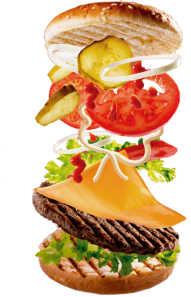
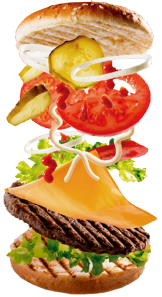
grinding

diff --git a/app/(tabs)/addItem.tsx b/app/(tabs)/addItem.tsx
@@ -1,4 +1,13 @@
-import { View, Text, StyleSheet, ScrollView, Image } from "react-native";
+import {
+  View,
+  Text,
+  StyleSheet,
+  ScrollView,
+  Image,
+  TouchableOpacity,
+  Dimensions,
+  PixelRatio,
+} from "react-native";
 import React, { useState } from "react";
 import { SafeAreaView } from "react-native-safe-area-context";
 import { StatusBar } from "expo-status-bar";
@@ -6,6 +15,7 @@ import { router } from "expo-router";
 import Icon from "react-native-vector-icons/Feather";
 import Slider from "@react-native-community/slider";
 
+const { width, height } = Dimensions.get("window");
 const AddItem = () => {
   const [quantity, setQuantity] = useState<number>(1);
   const [spicyLevel, setSpicyLevel] = useState(0);
@@ -21,19 +31,13 @@ const AddItem = () => {
               color={"#3C2F2F"}
               onPress={() => router.back()}
             />
-            <Icon
-              name="search"
-              size={24}
-              color={"#3C2F2F"}
-              onPress={() => router.back()}
-            />
           </View>
           <View style={styles.mainContainer}>
             <View style={styles.mainContent}>
               <View style={styles.imageContainer}>
                 <Image
                   source={{
-                    uri: "https://res.cloudinary.com/dlnvweuhv/image/upload/v1732382937/addItem-image_yavv1u.png",
+                    uri: "https://res.cloudinary.com/dlnvweuhv/image/upload/v1732389322/addItem-image_lca3zj.png",
                   }}
                   alt="hamburger_image"
                   style={styles.image}
@@ -62,6 +66,38 @@ const AddItem = () => {
                     <Text style={styles.hotLabel}>Hot</Text>
                   </View>
                 </View>
+                <View style={styles.quantityControlContainer}>
+                  <Text style={styles.specificationText}>Portion</Text>
+                  <View style={styles.quantityControlContent}>
+                    <TouchableOpacity
+                      style={styles.quantityControlButtons}
+                      onPress={() =>
+                        setQuantity((prevQuantity) =>
+                          Math.max(1, prevQuantity - 1)
+                        )
+                      }
+                    >
+                      <Text style={styles.quantityControlButtonsText}>-</Text>
+                    </TouchableOpacity>
+                    <Text style={styles.quantity}>{quantity}</Text>
+                    <TouchableOpacity
+                      style={styles.quantityControlButtons}
+                      onPress={() =>
+                        setQuantity((prevQuantity) => prevQuantity + 1)
+                      }
+                    >
+                      <Text style={styles.quantityControlButtonsText}>+</Text>
+                    </TouchableOpacity>
+                  </View>
+                </View>
+              </View>
+            </View>
+            <View style={styles.flatListContainer}>
+              <View style={styles.FlatList1content}>
+                <Text style={styles.flatListHeading}>Toppings</Text>
+              </View>
+              <View style={styles.FlatList2content}>
+                <Text style={styles.flatListHeading}>Side options</Text>
               </View>
             </View>
           </View>
@@ -85,33 +121,39 @@ const styles = StyleSheet.create({
   },
   headerContainer: {
     flexDirection: "row",
-    justifyContent: "space-between",
     alignItems: "center",
   },
   mainContainer: {
     flexDirection: "column",
     gap: 6,
+    paddingTop: "8%",
   },
   mainContent: {
+    // flexDirection: width < 600 ? "column" : "row",
+    // gap: width < 600 ? 10 : 16,
     flexDirection: "row",
-    gap: 8,
+    gap: 10,
+    justifyContent: "space-between",
+    alignItems: "center",
   },
   imageContainer: {
-    width: "50%",
-    aspectRatio: 1.8,
+    // width: "50%",
+    // aspectRatio: 1,
+    flex: 1, // Take up equal space as descriptionContainer
   },
   image: {
     width: "100%",
     height: "100%",
   },
   descriptionContainer: {
-    width: "50%",
+    flex: 1, // Take up equal space as imageContainer
+    // width: "50%",
     flexDirection: "column",
-    gap: 8,
+    gap: "4%",
   },
   description: {
     fontFamily: "roboto",
-    fontSize: 14,
+    fontSize: PixelRatio.getFontScale() * 16,
     color: "#3C2F2F",
   },
   customizeText: {
@@ -123,20 +165,20 @@ const styles = StyleSheet.create({
   },
   specificationText: {
     color: "#3C2F2F",
-    fontSize: 14,
-    fontWeight: "medium",
+    fontSize: PixelRatio.getFontScale() * 14,
+    fontWeight: "700",
     fontFamily: "roboto",
   },
   sliderContainer: {
     flexDirection: "row",
     alignItems: "center",
     justifyContent: "space-between",
-    width: "65%",
+    width: "100%",
   },
   slider: {
     flex: 1,
-    marginHorizontal: "0.5%",
     height: 40,
+    marginHorizontal: width < 400 ? "1%" : "0.5%",
   },
   mildLabel: {
     color: "#1CC019",
@@ -145,7 +187,61 @@ const styles = StyleSheet.create({
   },
   hotLabel: {
     color: "#EF2A39",
-    fontSize: 14,
+    fontSize: PixelRatio.getFontScale() * 14,
     fontWeight: "bold",
+  },
+  quantityControlContainer: {
+    flexDirection: "column",
+    gap: 8,
+    width: "100%",
+  },
+  quantityControlContent: {
+    flexDirection: "row",
+    gap: 8,
+    alignItems: "center",
+    justifyContent: "space-between",
+  },
+  quantityControlButtons: {
+    paddingHorizontal: 16,
+    paddingVertical: 4,
+    backgroundColor: "#EF2A39",
+    alignItems: "center",
+    justifyContent: "center",
+    borderRadius: 10,
+    shadowColor: "#EF2A39",
+    shadowOffset: { width: 0, height: 0 },
+    shadowOpacity: 0.3,
+    shadowRadius: 6,
+    elevation: 16,
+  },
+  quantityControlButtonsText: {
+    color: "#fff",
+    fontFamily: "roboto",
+    fontWeight: "bold",
+    fontSize: PixelRatio.getFontScale() * 24,
+  },
+  quantity: {
+    fontFamily: "inter",
+    color: "#3C2F2F",
+    fontWeight: "bold",
+    fontSize: PixelRatio.getFontScale() * 18,
+  },
+  flatListContainer: {
+    flexDirection: "column",
+    gap: "4%",
+  },
+  FlatList1content: {
+    flexDirection: "column",
+    gap: "2%",
+  },
+  FlatList2content: {
+    flexDirection: "column",
+    gap: "2%",
+  },
+  flatListHeading: {
+    fontFamily: "roboto",
+    fontWeight: "semibold",
+    fontSize: PixelRatio.getFontScale() * 18,
+    color: "##3C2F2F",
   },
 });
